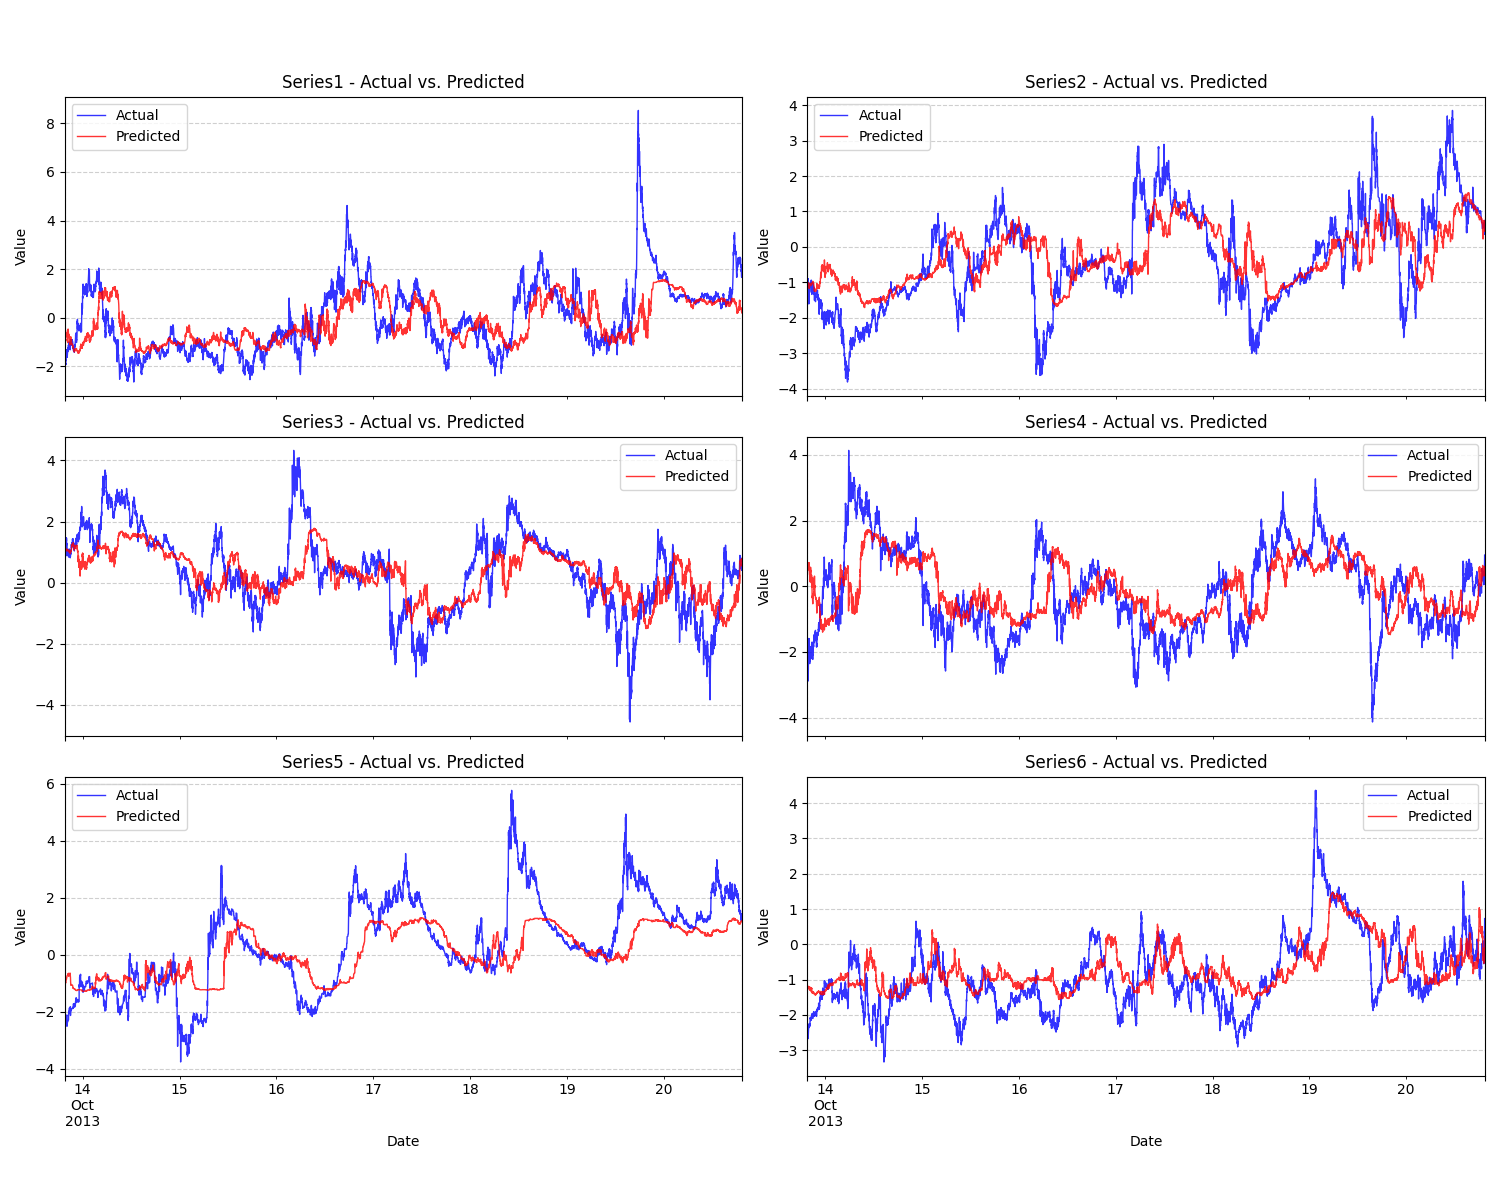
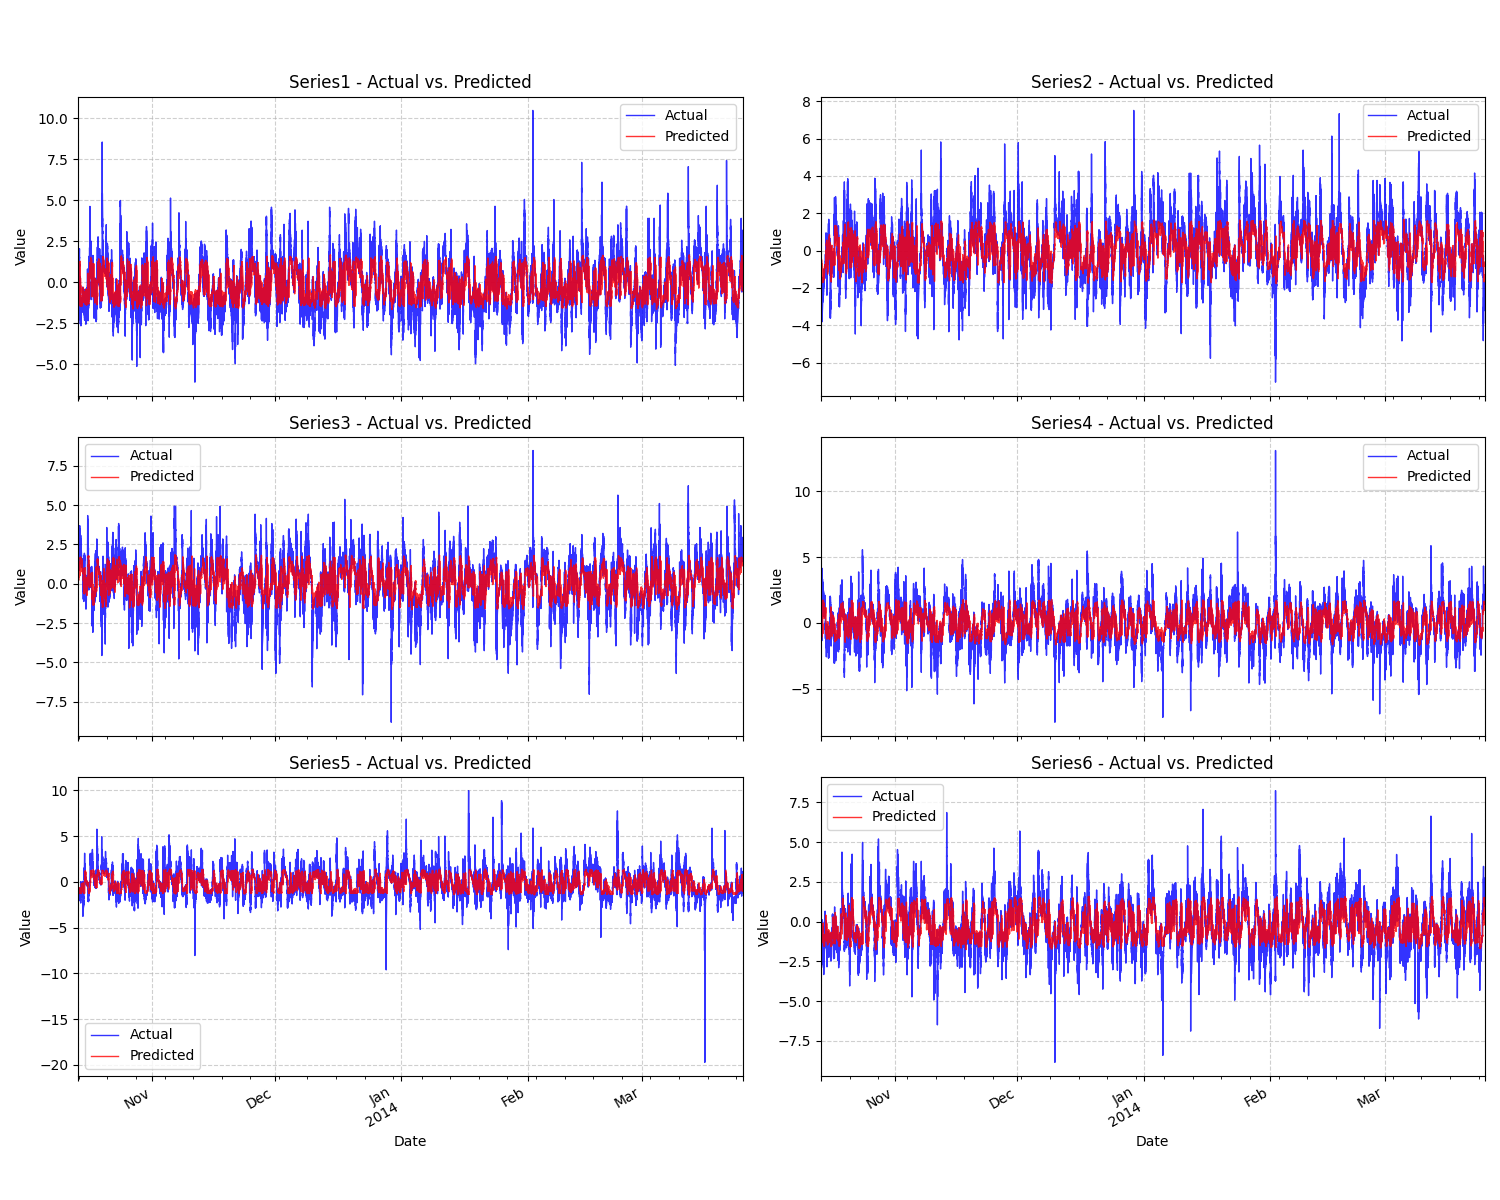
chore: cleanup

diff --git a/compare.py b/compare.py
@@ -18,8 +18,8 @@ PREDICTION_DATA_FILE = 'predictions.csv' # e.g., predictions from Shifted Output
 OUTPUT_PLOT_FILE = 'evaluation_actual_vs_pred_plot.png' # New plot name
 
 SERIES_TO_PLOT = ['Series1', 'Series2', 'Series3', 'Series4', 'Series5', 'Series6']
-PLOT_PERIOD_LIMIT = '7D' # Example: Plot first 7 days of available comparison period
-# PLOT_PERIOD_LIMIT = None # Uncomment to plot all available comparison period
+# PLOT_PERIOD_LIMIT = '7D' # Example: Plot first 7 days of available comparison period
+PLOT_PERIOD_LIMIT = None # Uncomment to plot all available comparison period
 
 # --- Helper Function for sMAPE ---
 def symmetric_mean_absolute_percentage_error(y_true, y_pred, epsilon=1e-10):

diff --git a/README.md b/README.md
@@ -1,0 +1,77 @@
+# Проєкт: Прогнозування Корельованих Часових Рядів
+
+## Завдання
+
+Розробити та навчити модель для прогнозування значення 6 сильно корельованих часових рядів на **4 години (240 хвилин)** вперед. Прогноз має генеруватися **щохвилини** для кожного ряду, використовуючи лише поточні або минулі дані.
+
+## 1. EDA (Дослідження даних)
+
+Проведено комплексний аналіз вихідних даних (`data.csv`, ~22 місяці):
+
+* **Пропущені значення:** Виявлено приблизно **~5%** пропущених значень у кожному ряді. Аналіз за допомогою `missingno` (матриця, теплова карта) показав, що пропуски є **розсіяними** (немає великих безперервних блоків) і **некорельованими** між рядами (пропуск в одному ряді не означає пропуск в іншому в той же час).
+* **Викиди:** Дані містять викиди. Було застосовано метод **IQR (міжквартильний розмах) з множником 1.5** для їх ідентифікації та заміни на NaN перед фінальною інтерполяцією. Також тестувався підхід без видалення викидів, але з огляду на використання MAE-втрат (`regression_l1`) в LightGBM, що є стійким до викидів, та схожі результати, було вирішено залишити їх обробку методом IQR як стандартний крок очищення.
+* **Стаціонарність:** Початкові тести (ADF) вказували на **нестаціонарність** рядів на рівнях, що є типовим для фінансових даних.
+* **Сезонність:** Аналіз середніх значень за годинами та днями тижня виявив **сильні добові та особливо тижневі сезонні патерни** (значення на вихідних помітно відрізняються від будніх днів).
+* **Крос-кореляція:**
+    * Стандартна кореляційна матриця підтвердила наявність **помірної одночасної кореляції** між рядами.
+    * Аналіз функції крос-кореляції (CCF) показав, що **найсильніша кореляція спостерігається при нульовому лазі (Lag 0)**. Виявлено лише **дуже слабкі та короткі (2-6 хвилин) взаємозв'язки випередження/запізнення** між деякими парами рядів, які навряд чи будуть інформативними для 4-годинного прогнозу.
+* **Аналіз помилок моделі (з попередніх ітерацій):**
+    * Помилки прогнозування (залишки) демонстрували **сильну автокореляцію** (високі значення ACF на багатьох лагах), що вказувало на невикористану тимчасову структуру даних.
+    * Спостерігалася **гетероскедастичність** (зміна дисперсії помилок у часі), причому більші помилки часто збігалися з періодами вищої волатильності вихідних даних.
+    * Розподіл помилок був близьким до нуля в середньому (низький біас), але мав "товсті хвости".
+
+## 2. Створення фіч (Feature Engineering)
+
+На основі EDA та ітераційних експериментів, фінальний набір фічей для моделі LightGBM включає:
+
+* **Календарні фічі:**
+    * Базові: `hour`, `day_of_week`, `day_of_year`, `month`, `week_of_year`, `year`, `is_weekend`.
+    * Тригонометричні (для кращого представлення циклічності для дерев): `hour_sin`, `hour_cos`, `dow_sin`, `dow_cos`, `month_sin`, `month_cos`.
+* **Лагові фічі самої серії (Self-Lags):** Значення ряду в минулому (`lag_1`, `lag_5`, `lag_15`, `lag_60`, `lag_240`, `lag_255`). Лаг `lag_240` виявився надзвичайно важливим.
+* **Ковзні статистики самої серії (Self-Rolling Stats):** Середнє та стандартне відхилення за вікнами 15, 60 та 240 хвилин (`rollmean_W`, `rollstd_W`), розраховані з `closed='left'` для уникнення витоку даних.
+* **Прості крос-лагові фічі (Simple Cross-Lags):** Значення *інших* рядів з невеликими затримками (`SeriesX_X_SeriesY_lag_1`, `SeriesX_X_SeriesY_lag_5`).
+
+**Відкинуті фічі:** Під час експериментів були протестовані, але **виключені** з фінального набору через низьку важливість (за feature importance) та відсутність покращення метрик на тестовому наборі:
+* Складні крос-серійні фічі (ковзні середні/стандартні відхилення інших рядів, різниці між парами рядів, крос-волатильність).
+
+## 3. Обробка пропусків (Handling Missing Values)
+
+* Початкові ~5% пропущених значень обробляються за допомогою **часової лінійної інтерполяції** (`interpolate(method='time')`). Цей метод обрано через відносно невеликий відсоток пропусків та їх розсіяний, некорельований характер (згідно з EDA).
+* Додаткові NaN, що виникають після видалення викидів методом IQR, також заповнюються за допомогою `interpolate(method='time')`.
+* Фінальна перевірка та інтерполяція після встановлення частоти (`asfreq`) гарантують відсутність пропусків перед створенням фіч.
+
+## 4. Обробка кореляцій між рядами (Handling Cross-Series Correlations)
+
+* Завдання вимагало врахування кореляції між рядами.
+* EDA (CCF) показало, що основна кореляція є одночасною (Lag 0), а зв'язки випередження/запізнення слабкі та короткострокові.
+* У фінальну модель включено **прості крос-лагові фічі** (`lag_1`, `lag_5` інших рядів), щоб спробувати врахувати короткострокові взаємозв'язки.
+* Спроби додати більш складні крос-серійні фічі (ковзні статистики інших рядів, різниці між парами) не призвели до покращення результатів і були відкинуті. Модель стабільно надавала перевагу власній історії ряду.
+
+## 5. Використані ML/DL моделі (ML/DL Models Used)
+
+* Основною моделлю, використаною для фінальних результатів, є **LightGBM** (реалізація градієнтного бустингу).
+* Обрано стратегію навчання **6 незалежних моделей LightGBM**, по одній для прогнозування кожного з 6 цільових часових рядів. Це дозволяє кожній моделі спеціалізуватися на своєму ряді, використовуючи при цьому повний набір фічей (включаючи інформацію з інших рядів).
+* Як цільову змінну використовується **абсолютне значення** ряду через 4 години (`value[t+240]`).
+    * *Експеримент:* Тестувалося прогнозування різниці (`value[t+240] - value[t]`) та першої різниці (`value[t] - value[t-1]`), але це не покращило (або навіть погіршило) фінальні метрики на абсолютних значеннях після реконструкції.
+* *Потенційний наступний крок:* З огляду на автокореляцію помилок, наступним кроком для потенційного покращення могла б бути спроба моделей, що краще працюють з послідовностями, наприклад, **LSTM**.
+
+## 6. Процес навчання моделей (Model Training Process)
+
+1.  **Підготовка даних:** Завантаження, очищення (інтерполяція NaN, видалення викидів IQR), генерація фічей (календарні+триг, лаги, ковзні статистики) на повному історичному наборі даних.
+2.  **Розбиття Train/Test:** Навчальний набір (`train_df`) містить усі дані *до* дати початку наданого тестового файлу (`Timeseries_six_test.csv`). Тестовий набір фічей (`X_test`) містить фічі, що відповідають часовим міткам з `Timeseries_six_test.csv`.
+3.  **Оптимізація гіперпараметрів:**
+    * Використовується бібліотека **Optuna** для автоматичного пошуку оптимальних гіперпараметрів LightGBM.
+    * Застосовується **TimeSeriesSplit** з параметром `gap=FORECAST_HORIZON` (240 хвилин) для крос-валідації на навчальному наборі. Це забезпечує більш надійну оцінку узагальнюючої здатності моделі та запобігає витоку даних під час валідації.
+    * Як цільова функція для Optuna використовується MAE (`objective='regression_l1'`), метрика для оцінки - RMSE.
+4.  **Визначення Оптимальної К-сті Ітерацій:** Після знаходження найкращих параметрів Optuna, проводиться тренування з ранньою зупинкою (early stopping) на внутрішній валідаційній вибірці (останні 10% тренувальних даних), щоб визначити оптимальну кількість бустингових раундів (дерев).
+5.  **Фінальне Тренування:** Навчаються 6 окремих моделей LightGBM на **всьому** тренувальному наборі (`X_train`, `y_train`), використовуючи найкращі параметри з Optuna та оптимальну кількість раундів, знайдену на попередньому кроці.
+
+## 7. Перевірка на Look-ahead Bias
+
+Вжито заходів для запобігання витоку майбутньої інформації в минуле (Look-ahead Bias):
+
+* **Розбиття даних:** Чітке хронологічне розбиття на тренувальний набір (дані до початку тестового періоду) та тестовий набір (дані з тестового періоду).
+* **Генерація фіч:** Усі лагові фічі використовують `shift(n)` з `n >= 1`. Усі ковзні статистики використовують `closed='left'`, що гарантує використання лише минулих даних для розрахунку вікна.
+* **Крос-валідація:** Використання `TimeSeriesSplit` гарантує, що на кожному фолді валідація відбувається на даних, які йдуть *після* тренувальних даних цього фолду. Додатково використовується `gap=FORECAST_HORIZON`, щоб створити буфер між тренувальним та валідаційним наборами, роблячи оцінку ще більш надійною щодо майбутньої продуктивності.
+
+Ці заходи гарантують, що модель навчається та валідується лише на основі інформації, яка була б доступна на момент прогнозування.
